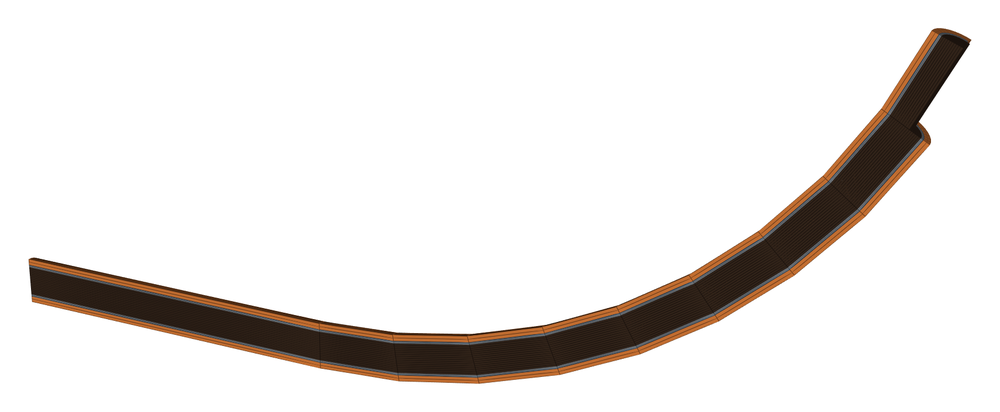
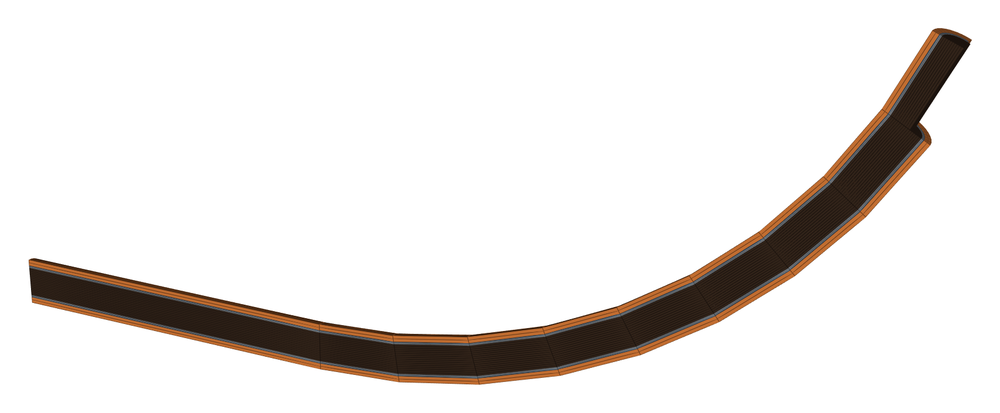
Task 0171: a gridded seabed is interpolated bilinearly (RegularGridInterpolator), the same on every platform; scattered points keep the Delaunay surface. subsea_pipeline moves by up to 2.0e-3 m; the platform test reads its own fixture, examples_built.json; the run before the fix (44478052400) failed

diff --git a/hexmesh/interchange/importers/bathymetry.py b/hexmesh/interchange/importers/bathymetry.py
@@ -208,15 +208,43 @@ def _make_interpolator(
     y: np.ndarray,
     z: np.ndarray,
 ):
-    """Build a 2-D scatter interpolator for the bathymetric surface."""
+    """The surface's height at ``(x, y)``, NaN outside it.
+
+    Points on an axis-aligned grid (every x with every y, once: GeoTIFF
+    without rotation, NetCDF, and a gridded XYZ file) interpolate
+    bilinearly in each cell, the same on every platform (task 0171).
+    Other points, scattered or a rotated grid, interpolate linearly on
+    Qhull's Delaunay triangulation; where four points are co-circular
+    (as a grid's cells are) its choice of diagonal follows rounding, so
+    the heights there can differ by platform."""
     try:
-        from scipy.interpolate import LinearNDInterpolator
-        return LinearNDInterpolator(np.column_stack([x, y]), z)
+        from scipy.interpolate import LinearNDInterpolator, RegularGridInterpolator
     except ImportError:
         raise ImportError(
             "scipy is required for bathymetry interpolation. "
             "Install with: pip install scipy"
         )
+    grid = _grid(x, y, z)
+    if grid is None:
+        return LinearNDInterpolator(np.column_stack([x, y]), z)
+    bilinear = RegularGridInterpolator(grid[:2], grid[2], bounds_error=False,
+                                       fill_value=np.nan)
+    return lambda px, py: bilinear(np.column_stack([np.ravel(px), np.ravel(py)]))
+
+
+def _grid(x: np.ndarray, y: np.ndarray, z: np.ndarray):
+    """``(xs, ys, Z)`` with ``Z[i, j]`` the height at ``(xs[i], ys[j])``
+    when the points are every x with every y once (in any order), else
+    None."""
+    xs, i = np.unique(x, return_inverse=True)
+    ys, j = np.unique(y, return_inverse=True)
+    if len(xs) < 2 or len(ys) < 2 or len(xs) * len(ys) != len(z):
+        return None
+    zz = np.full((len(xs), len(ys)), np.nan)
+    zz[i.ravel(), j.ravel()] = z
+    seen = np.zeros(zz.shape, bool)
+    seen[i.ravel(), j.ravel()] = True
+    return (xs, ys, zz) if seen.all() else None
 
 
 # ---------------------------------------------------------------------------

diff --git a/tests/test_io_readers.py b/tests/test_io_readers.py
@@ -159,6 +159,37 @@ def test_bathymetry_route(tmp_path, gmsh_session):
     assert asm.check_quality().ok
 
 
+def test_a_gridded_surface_interpolates_bilinearly(tmp_path):
+    """A grid, written in shuffled order, gives a bilinear surface its
+    exact heights; the Delaunay surface cuts each cell into two planes
+    and doesn't (task 0171)."""
+    pytest.importorskip("scipy")
+    from hexmesh.interchange.importers.bathymetry import read_bathymetry
+    x, y = np.meshgrid([0.0, 1.0, 3.0], [0.0, 2.0, 2.5, 4.0])     # rectilinear
+    z = 1.0 + 0.5 * x - 0.25 * y + 0.75 * x * y                   # bilinear
+    rows = np.column_stack([x.ravel(), y.ravel(), z.ravel()])
+    surf = tmp_path / "grid.xyz"
+    np.savetxt(surf, np.random.default_rng(0).permutation(rows))
+    route = [(0.5, 0.5), (2.0, 1.0), (2.9, 3.3)]
+    net = read_bathymetry(surf, route)
+    got = np.array(net.positions(net.parts["route"]))
+    exact = [1.0 + 0.5 * px - 0.25 * py + 0.75 * px * py for px, py in route]
+    assert np.allclose(got[:, 2], exact, rtol=0, atol=1e-12)
+
+
+def test_scattered_points_keep_the_delaunay_surface(tmp_path):
+    pytest.importorskip("scipy")
+    from scipy.interpolate import LinearNDInterpolator
+    from hexmesh.interchange.importers.bathymetry import _make_interpolator
+    rng = np.random.default_rng(1)
+    x, y = rng.uniform(0, 1, 30), rng.uniform(0, 1, 30)
+    assert isinstance(_make_interpolator(x, y, x + y), LinearNDInterpolator)
+    gx, gy = (a.ravel() for a in np.meshgrid([0.0, 1.0], [0.0, 1.0]))
+    gz = np.array([0.0, 1.0, 1.0, 0.0])
+    assert np.isclose(float(_make_interpolator(gx, gy, gz)([0.5], [0.5])[0]), 0.5)
+    assert np.isnan(_make_interpolator(gx, gy, gz)([2.0], [0.5])[0])
+
+
 # ---------------------------------------------------------------------------
 # Conformance with the PCF reference guide (docs/tasks/0021)
 # ---------------------------------------------------------------------------

diff --git a/tests/test_intent.py b/tests/test_intent.py
@@ -174,6 +174,10 @@ V2_EXAMPLES = Path(__file__).parent / "data" / "examples_v2.json"
 #: example may change later, and ``subsea_pipeline`` drapes its route over a
 #: surface differently on macOS)
 CURRENT_EXAMPLES = Path(__file__).parent / "data" / "examples_current.json"
+#: every example as it builds today, on any platform (task 0171): an
+#: intended change to an example regenerates its entry here, not in
+#: ``examples_current.json``
+BUILT_EXAMPLES = Path(__file__).parent / "data" / "examples_built.json"
 
 
 def _same(a, b, path="") -> list[str]:
@@ -266,13 +270,13 @@ def test_another_section_kind_is_a_coded_error():
     assert e.value.where == {"field": "kind"} and e.value.limit == ["concentric"]
 
 
-@pytest.mark.parametrize("name", sorted(json.loads(CURRENT_EXAMPLES.read_text(encoding="utf-8"))))
+@pytest.mark.parametrize("name", sorted(json.loads(BUILT_EXAMPLES.read_text(encoding="utf-8"))))
 def test_example_builds_the_same_description_on_every_platform(name, gmsh_session):
     """Every example builds the description recorded in
-    ``examples_current.json`` (task 0171): CI runs this on each platform,
+    ``examples_built.json`` (task 0171): CI runs this on each platform,
     so an example whose build depends on the platform fails by name.  An
     intended change to an example regenerates its entry."""
     import importlib
     built = importlib.import_module("hexmesh.examples." + name).build().to_dict()
-    expected = json.loads(CURRENT_EXAMPLES.read_text(encoding="utf-8"))[name]
+    expected = json.loads(BUILT_EXAMPLES.read_text(encoding="utf-8"))[name]
     assert _same(built, expected) == []

diff --git a/docs/tasks/0171-bathymetry-platform-independent.md b/docs/tasks/0171-bathymetry-platform-independent.md
@@ -91,6 +91,50 @@ surfaces platform-independent.
   (`tests/test_intent.py`): 35 pass on Linux in 6 s, so it isn't marked.
   Pushed before the fix for the run that should fail on macOS for
   `subsea_pipeline` only.
+- **Step 4, the run before the fix:** CI run 44478052400 on 3bf6edf
+  (2026-11-19).  Both macOS jobs (Python 3.x and 3.11) fail one test,
+  `test_example_builds_the_same_description_on_every_platform[applications.subsea_pipeline]`
+  (its first difference in `.inlet.normal`); 4734 pass.  The three
+  Ubuntu jobs, both Windows jobs and the OpenFOAM job pass.  As
+  expected: no other example, and no other platform.
+- **Step 2, the fix (2026-11-19).**  `_make_interpolator` checks
+  whether the points are every x with every y, once, in any order
+  (`_grid`: `np.unique` on each axis, the product equals the count,
+  every pair seen).  Then `RegularGridInterpolator` (bilinear, NaN
+  outside, as `LinearNDInterpolator` gives); otherwise
+  `LinearNDInterpolator` as before.  Spacing may vary along an axis
+  (rectilinear).  **A rotated grid counts as scattered:** its x and y
+  don't repeat, so detecting it means fitting the transform; out of
+  scope.  The docstring and API.md say a scattered surface's heights
+  can depend on the platform.
+- **Step 3, the change.**  Only `subsea_pipeline` changes among the 35
+  examples; the others' descriptions are identical to the stored ones
+  (so are their meshes: a mesh is built from its description).  In
+  `subsea_pipeline`: points up to 2.04e-3 m, a fitting's roll up to
+  2.62e-3°, an angle up to 3.0e-4°, a length up to 2.4e-5 m, the inlet
+  normal 1.1e-5.  Gallery: `--only applications.subsea_pipeline`
+  rebuilt it (183 744 cells as before; max aspect 985.3 → 982.8, min
+  SICN 0.00301 → 0.00302); the images change by a few bytes, not
+  visibly.  The `--only` build also rewrites the gallery's header line
+  (date, commit, "one core"), as it always does.
+- **Refined step 3/4: a fixture of its own.**  `examples_current.json`
+  is the version-2 migration test's expected file, and its comment
+  keeps it fixed so that test checks the migration only:
+  `examples_v2.json`'s `subsea_pipeline` carries the old heights, so
+  regenerating that entry would break the migration test.  The
+  platform test reads `tests/data/examples_built.json` instead: a copy
+  of `examples_current.json` with `subsea_pipeline` rebuilt.  An
+  intended change to an example regenerates its entry there.
+- **Tests:** `test_a_gridded_surface_interpolates_bilinearly` (a
+  rectilinear 3 × 4 grid written shuffled, z = 1 + 0.5x − 0.25y +
+  0.75xy, three route points exact to 1e-12; the Delaunay surface,
+  planar per triangle, is not exact for the xy term) and
+  `test_scattered_points_keep_the_delaunay_surface`
+  (`tests/test_io_readers.py`).  `test_intent.py` and
+  `test_io_readers.py`: 301 passed; `test_api_inventory.py` and
+  `test_architecture.py`: 109 passed.
+- **Step 5:** `docs/integrations/platforms.md`, "scipy/Qhull: a grid's
+  Delaunay triangulation differs by platform".
 
 ## Questions for design
 

diff --git a/docs/gallery/APPLICATIONS.md b/docs/gallery/APPLICATIONS.md
@@ -17,7 +17,7 @@ and a buried district-heating pipe: the examples closest to a real model.
 | [idealised_aorta](#idealised_aorta) | Idealised aorta: the arch with its three branches, the tapering descending and abdominal aorta, and the iliac bifurcation. | 40 448 | 0.089 | 0.133 | 21.8 s |
 | [rocket_injector_manifold](#rocket_injector_manifold) | Rocket injector manifold: a liquid-oxygen ring feeding eight injector legs, supplied by an insulated feed line through a cavitating venturi. | 80 768 | 0.064 | 0.258 | 103.2 s |
 | [micromixer](#micromixer) | Micromixer: a T-mixer for lipid nanoparticles, with a twisted mixing channel, at its real size in micrometres. | 10 112 | 0.146 | 0.577 | 28.7 s |
-| [subsea_pipeline](#subsea_pipeline) | Subsea pipeline: an insulated flowline laid over a field of sand waves, read from a seabed survey, rising at its end into a riser. | 183 744 | 0.003 | 0.771 | 220.6 s |
+| [subsea_pipeline](#subsea_pipeline) | Subsea pipeline: an insulated flowline laid over a field of sand waves, read from a seabed survey, rising at its end into a riser. | 183 744 | 0.003 | 0.771 | 181.5 s |
 | [district_heating](#district_heating) | District heating: a buried pre-insulated pipe, its soil meshed with it, turning a street corner. | 23 040 | 0.023 | 0.599 | 8.4 s |
 
 ## drum_nozzle
@@ -456,7 +456,7 @@ python3 -m hexmesh.examples.applications.subsea_pipeline
 
 | Fittings | Volumes | Cells | min SICN | mean SICN | min SJ (where) | max aspect | Build |
 |---|---|---|---|---|---|---|---|
-| 5: Straight ×3, SplinePipe, Bend | 8092 | 183 744 | 0.003 | 0.062 | 0.771 (#3 Bend) | 985.3 | 220.6 s |
+| 5: Straight ×3, SplinePipe, Bend | 8092 | 183 744 | 0.003 | 0.062 | 0.771 (#3 Bend) | 982.8 | 181.5 s |
 
 - **Open ends:** `coating_inlet`, `coating_riser_top`, `insulation_inlet`, `insulation_riser_top`, `oil_inlet`, `oil_riser_top`, `steel_inlet`, `steel_riser_top`
 - **Walls:** `insulation_wall`
@@ -526,4 +526,4 @@ python3 -m hexmesh.examples.applications.district_heating
 
 ---
 
-Generated 2026-11-12 from hexmesh 73a2f07 + uncommitted changes, gmsh 4.12.1, Python 3.12.3, 8 CPUs, 2 job(s).
+Generated 2026-11-19 from hexmesh 3bf6edf + uncommitted changes, gmsh 4.12.1, Python 3.12.3, 8 CPUs, 1 job(s).

diff --git a/docs/integrations/platforms.md b/docs/integrations/platforms.md
@@ -98,6 +98,20 @@ same quoting the code applies.
 `str(path)` above: the failing assert, `endswith(f"… run {tmp_path}")`,
 is one of its planted examples.
 
+### scipy/Qhull: a grid's Delaunay triangulation differs by platform — *verified*
+`scipy.interpolate.LinearNDInterpolator` triangulates with Qhull's
+Delaunay.  Each cell of a regular grid has four co-circular corners, so
+either diagonal is a Delaunay cut, and rounding picks one.  On
+`subsea_pipeline`'s survey (161 × 53 at 5 m, scipy 1.11.4, numpy 1.26.4,
+Linux) Qhull cut 4149 cells one way and 4171 the other.  The route's
+heights then differed on macOS by up to about 2.5e-3 m (CI run
+44148935916, 2026-11-17); the two consistent splits differ by up to
+3.7e-3 m.  `read_bathymetry` now interpolates a grid bilinearly
+(`RegularGridInterpolator`, task 0171); scattered points keep Qhull.
+**Rule:** `test_example_builds_the_same_description_on_every_platform`
+(`tests/test_intent.py`) builds every example on every CI job and
+compares it with `tests/data/examples_built.json`.
+
 ## Open questions
 
 - The gallery's rendering on Windows is untested (task 0092, out of

diff --git a/CHANGELOG.md b/CHANGELOG.md
@@ -2,6 +2,19 @@
 
 ## Unreleased
 
+**Behaviour: a gridded seabed is interpolated bilinearly** (task 0171).
+`read_bathymetry` interpolated every surface on Qhull's Delaunay
+triangulation, which cuts a grid's cells along either diagonal as
+rounding decides, so a route's heights differed by platform (by up to
+about 2.5e-3 m on macOS in `subsea_pipeline`).  A surface whose points
+are every x with every y (GeoTIFF without rotation, NetCDF, a gridded
+XYZ file) is now bilinear in each cell, the same everywhere.  Routes
+over such surfaces move: in `subsea_pipeline` by up to 2.0e-3 m in a
+point and 2.6e-3° in a fitting's roll.  Scattered points, and a rotated
+grid, keep the triangulation.  A new test builds every example on every
+CI job and compares it with a stored copy, so a platform difference
+fails by name.
+
 ## 0.8.0 (2026-11-18)
 
 The API review before the 1.0 freeze (decisions 0042 and 0053): the

diff --git a/API.md b/API.md
@@ -1488,6 +1488,12 @@ model holding one `Polyline` (`PIPE`; segments `PIPE_1`, `PIPE_2`, …)
 with no sizes. Build it with `to_assembly(spec, kinks="spline")`. GeoTIFF and NetCDF surfaces
 and shapefile / GeoPackage routes need the `bathymetry` extra
 (`pip install -e ".[bathymetry]"`: rasterio, xarray, fiona, shapely).
+A surface whose points are every x with every y (GeoTIFF without
+rotation, NetCDF, a gridded XYZ file) is interpolated bilinearly in
+each cell, the same on every platform.  Other points, scattered or a
+rotated grid, are interpolated linearly on a Delaunay triangulation:
+where four points are co-circular, the heights there can differ by
+platform.
 
 ---
 

diff --git a/README.md b/README.md
@@ -93,7 +93,7 @@ What it gives (the gallery's `hexmesh.examples.sections.insulated_tee`):
 |---|---|---|---|---|
 | 13 164 = 13 164 | fluid · steel · insulation | 0.32 (the tee) | 0.11 | 9.1 s |
 
-<sub>gmsh 4.12.1, 2 examples at once, 2026-11-12.  Every example's numbers: [GALLERY.md](docs/GALLERY.md).</sub>
+<sub>gmsh 4.12.1, one core, 2026-11-19.  Every example's numbers: [GALLERY.md](docs/GALLERY.md).</sub>
 <!-- readme:metrics:end -->
 
 Doubling every density parameter doubles the nodes in each direction:

diff --git a/docs/gallery/VALIDATION.md b/docs/gallery/VALIDATION.md
@@ -250,4 +250,4 @@ Which hexmesh features each case exercises (decision 0012's list, extended by de
 
 ---
 
-Generated 2026-11-12 from hexmesh 73a2f07 + uncommitted changes, gmsh 4.12.1, Python 3.12.3, 8 CPUs, 2 job(s).
+Generated 2026-11-19 from hexmesh 3bf6edf + uncommitted changes, gmsh 4.12.1, Python 3.12.3, 8 CPUs, 1 job(s).

diff --git a/docs/GALLERY.md b/docs/GALLERY.md
@@ -48,4 +48,4 @@ Cases by status: ● 13 accepted, ⚠ 1 missed.  [The Validation page](gallery/V
 
 ---
 
-Generated 2026-11-12 from hexmesh 73a2f07 + uncommitted changes, gmsh 4.12.1, Python 3.12.3, 8 CPUs, 2 job(s).
+Generated 2026-11-19 from hexmesh 3bf6edf + uncommitted changes, gmsh 4.12.1, Python 3.12.3, 8 CPUs, 1 job(s).

diff --git a/docs/gallery/FEATURES.md b/docs/gallery/FEATURES.md
@@ -881,4 +881,4 @@ python3 -m hexmesh.examples.networks.skewed_network
 
 ---
 
-Generated 2026-11-12 from hexmesh 73a2f07 + uncommitted changes, gmsh 4.12.1, Python 3.12.3, 8 CPUs, 2 job(s).
+Generated 2026-11-19 from hexmesh 3bf6edf + uncommitted changes, gmsh 4.12.1, Python 3.12.3, 8 CPUs, 1 job(s).
